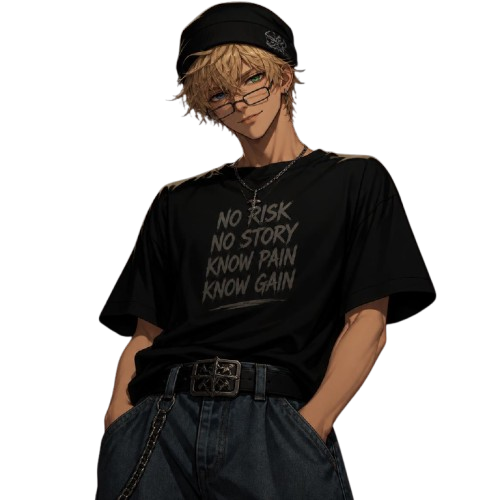
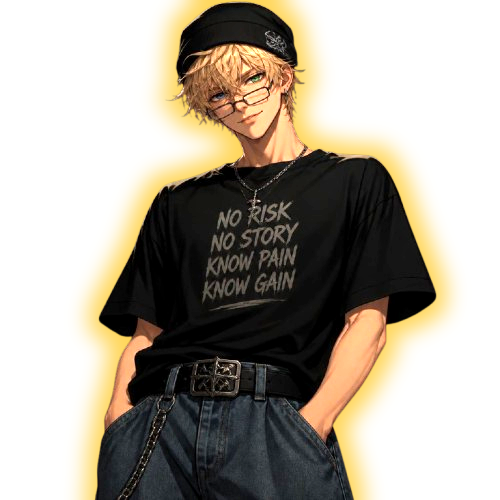
j

Changed region(s): [[0.15, 0.0, 0.93, 1.0], [0.39, 0.39, 0.6, 0.63]]

diff --git a/index.html b/index.html
@@ -36,7 +36,7 @@
   .guide-row { display:flex; align-items:center; gap:12px; background:var(--panel); border:1px solid rgba(255,255,255,0.14); border-radius:24px;
     padding:10px 18px; cursor:pointer; max-width:520px; transition: transform .15s ease, box-shadow .15s ease; }
   .guide-row:hover { transform: translateY(-3px); box-shadow: 0 16px 36px rgba(0,0,0,0.6), 0 0 22px rgba(96,165,250,0.3); }
-  .guide-row img { width:70px; height:70px; object-fit:contain; filter: drop-shadow(0 0 12px rgba(96,165,250,0.6)); }
+  .guide-row img { width:70px; height:70px; object-fit:contain; filter: drop-shadow(0 0 12px rgba(255,214,90,0.7)); }
   .guide-row .g-txt { text-align:left; }
   .guide-row .g-txt b { color:#bfdbfe; font-size:15px; display:block; }
   .guide-row .g-txt span { color:var(--muted); font-size:12.5px; }
@@ -92,7 +92,7 @@
     background:rgba(5,8,16,0.82); backdrop-filter:blur(5px); }
   .guide-card { background:#111827; border:1px solid rgba(255,255,255,0.16); border-radius:28px; padding:26px 30px; text-align:center;
     max-width:480px; width:100%; box-shadow:0 30px 70px rgba(0,0,0,0.7); animation: cardIn .35s cubic-bezier(.2,1.2,.3,1); }
-  .guide-card img { width:130px; height:130px; object-fit:contain; filter: drop-shadow(0 0 18px rgba(96,165,250,0.7)); }
+  .guide-card img { width:130px; height:130px; object-fit:contain; filter: drop-shadow(0 0 18px rgba(255,214,90,0.8)); }
   .guide-card h2 { font-size:26px; font-weight:900; color:#e2e8f0; margin:4px 0 10px; }
   .guide-card ul { list-style:none; text-align:left; display:flex; flex-direction:column; gap:8px; margin:0 auto 16px; max-width:360px; }
   .guide-card li { color:#cbd5e1; font-size:14px; font-weight:600; line-height:1.35; }
@@ -188,7 +188,7 @@
   .racer { position:absolute; z-index:16; pointer-events:none; will-change: transform, left; }
   .racer svg { width:100%; height:100%; filter: drop-shadow(0 4px 5px rgba(0,0,0,0.4)); }
   .racer.running { animation: chaserBob .26s ease-in-out infinite; }
-  .racer.guide img { width:100%; height:100%; object-fit:contain; filter: drop-shadow(0 0 10px rgba(96,165,250,0.65)); }
+  .racer.guide img { width:100%; height:100%; object-fit:contain; filter: drop-shadow(0 0 12px rgba(255,214,90,0.75)); }
 
   .obj { position:absolute; z-index:10; pointer-events:none; will-change: transform, opacity; }
   .obj svg { width:100%; height:100%; }
